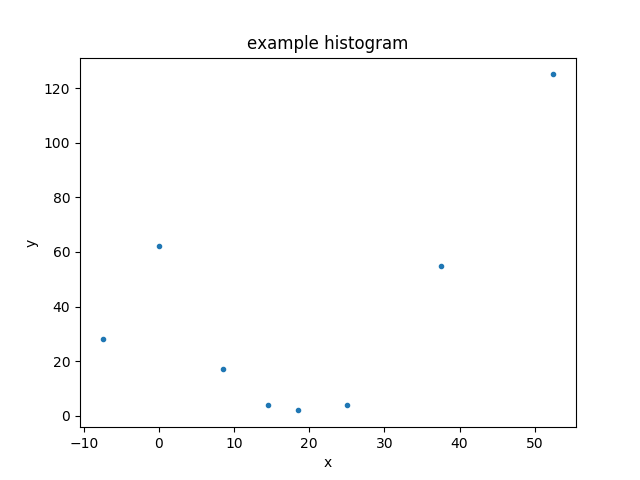
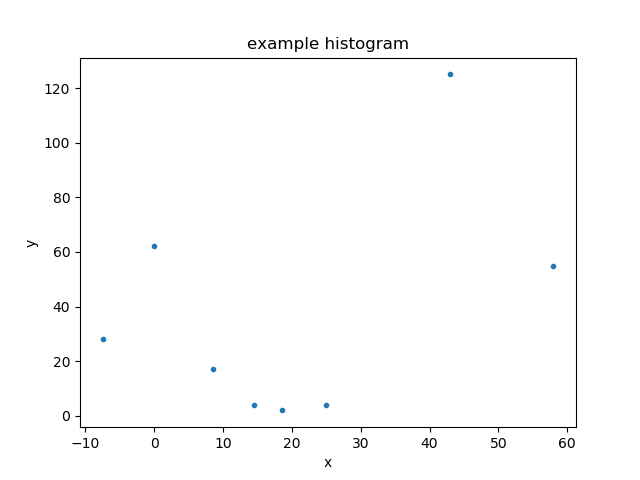
Sphinx: update the plot page
The aim was to mention the new keyword argument support, but the page
needed significant updates before this could happen (as it was missing
any useful text).

diff --git a/docs/_examples/plots/index.py b/docs/_examples/plots/index.py
@@ -1,0 +1,101 @@
+# for plot/index.rst
+
+import numpy as np
+import matplotlib.pyplot as plt
+
+def savefig(name):
+    plt.savefig(name)
+    print("# Created: {}".format(name))
+
+def report(name):
+    print("# print({})".format(name))
+    print(eval(name))
+    print("----------------------------------------")
+
+
+def dump(name):
+    print("# dump")
+    print("{}".format(name))
+    print(repr(eval(name)))
+    print("----------------------------------------")
+
+
+edges = np.asarray([-10, -5, 5, 12, 17, 20, 30, 56, 60])
+y = np.asarray([28, 62, 17, 4, 2, 4, 125, 55])
+
+from sherpa.data import Data1DInt
+d = Data1DInt('example histogram', edges[:-1], edges[1:], y)
+
+from sherpa.plot import DataPlot
+dplot = DataPlot()
+dplot.prepare(d)
+dplot.plot()
+
+savefig('dataplot_histogram.png')
+
+from sherpa.plot import Histogram
+hplot = Histogram()
+hplot.overplot(d.xlo, d.xhi, d.y)
+
+savefig('dataplot_histogram_overplot.png')
+
+from sherpa.models.basic import Const1D, Gauss1D
+mdl = Const1D('base') - Gauss1D('line')
+mdl.pars[0].val = 10
+mdl.pars[1].val = 25
+mdl.pars[2].val = 22
+mdl.pars[3].val = 10
+report("mdl")
+
+from sherpa.plot import ModelPlot
+mplot = ModelPlot()
+mplot.prepare(d, mdl)
+mplot.plot()
+dplot.overplot()
+
+savefig('modelplot_histogram_overplot.png')
+
+from sherpa.plot import FitPlot
+fplot = FitPlot()
+fplot.prepare(dplot, mplot)
+fplot.plot()
+
+savefig('fitplot_histogram.png')
+
+# settings
+
+report("dplot.plot_prefs")
+
+dplot.plot_prefs['ylog'] = True
+dplot.plot(marker='s', linestyle='dashed')
+
+savefig('settings_dataplot_combined.png')
+
+dplot.plot()
+savefig('settings_dataplot_ylog.png')
+
+dplot.plot_prefs['ylog'] = False
+
+
+from sherpa.optmethods import NelderMead
+from sherpa.stats import Cash
+from sherpa.fit import Fit
+f = Fit(d, mdl, stat=Cash(), method=NelderMead())
+out = f.fit()
+
+# How bad a fit is this?
+print(out)
+# f.est_errors()
+
+mplot.prepare(d, mdl)
+fplot.plot()
+
+savefig('fitplot_histogram_after.png')
+
+from sherpa.plot import IntervalProjection
+iproj = IntervalProjection()
+iproj.calc(f, mdl.pars[2])
+
+iproj.plot()
+
+savefig('intproj_histogram_pos.png')

diff --git a/docs/plots/index.rst b/docs/plots/index.rst
@@ -51,12 +51,29 @@ these used from the object API?
 Example
 =======
 
+Here is the data we wish to display: a set of consecutive
+bins, defining the edges of the bins, and the counts in each bin:
+
     >>> import numpy as np
     >>> edges = np.asarray([-10, -5, 5, 12, 17, 20, 30, 56, 60])
-    >>> y = np.asarray([28, 62, 17, 4, 2, 4, 55, 125])
-   
+    >>> y = np.asarray([28, 62, 17, 4, 2, 4, 125, 55])
+
+As this is a one-dimensional integrated data set (i.e. a histogram),
+we shall use the :py:class:`~sherpa.data.Data1DInt` class to
+represent it:
+
     >>> from sherpa.data import Data1DInt
     >>> d = Data1DInt('example histogram', edges[:-1], edges[1:], y)
+
+Displaying the data
+-------------------
+
+The :py:class:`~sherpa.plot.DataPlot` class can then be used to
+display the data, using the :py:meth:`~sherpa.plot.DataPlot.prepare`
+method to set up the data to plot - in this case the
+:py:class:`~sherpa.data.Data1DInt` object - and then the
+:py:meth:`~sherpa.plot.DataPlot.plot` method to actually plot the
+data:
 
     >>> from sherpa.plot import DataPlot
     >>> dplot = DataPlot()
@@ -65,7 +82,25 @@ Example
 
 .. image:: ../_static/plots/dataplot_histogram.png
 
-Some text.
+The appearance of the plot will depend on the chosen backend (although
+as of the Sherpa 4.12.0 release there is only one, using the
+:term:`matplotlib` package).
+
+Plotting data directly
+----------------------
+
+Most of the Sherpa plot objects expect Sherpa objects to be sent
+to their ``prepare`` methods - normally data and model objects,
+but plot objects themselves can be passed around for "composite"
+plots - but there are several classes that accept the values to
+display directly:
+:py:class:`~sherpa.plot.Plot`,
+:py:class:`~sherpa.plot.Histogram`,
+:py:class:`~sherpa.plot.Point`,
+and
+:py:class:`~sherpa.plot.Contour`. Here we use the Histogram
+class directly to diplay the data directly, on top of the
+existing plot:
 
     >>> from sherpa.plot import Histogram
     >>> hplot = Histogram()
@@ -73,12 +108,40 @@ Some text.
 
 .. image:: ../_static/plots/dataplot_histogram_overplot.png
 
-Some more text.
+Creating a model
+----------------
+
+For the following we need a
+:doc:`model to display <../models/index>`, so how about
+a constant minus a gaussian, using the
+:py:class:`~sherpa.models.basic.Const1D`
+and
+:py:class:`~sherpa.models.basic.Gauss1D`
+classes:
 
     >>> from sherpa.models.basic import Const1D, Gauss1D
     >>> mdl = Const1D('base') - Gauss1D('line')
-    >>> for p, v in zip(mdl.pars, [10, 25, 22, 10]):
-    ...     p.val = v
+    >>> mdl.pars[0].val = 10
+    >>> mdl.pars[1].val = 25
+    >>> mdl.pars[2].val = 22
+    >>> mdl.pars[3].val = 10
+    >>> print(mdl)
+    (base - line)
+       Param        Type          Value          Min          Max      Units
+       -----        ----          -----          ---          ---      -----
+       base.c0      thawed           10 -3.40282e+38  3.40282e+38           
+       line.fwhm    thawed           25  1.17549e-38  3.40282e+38           
+       line.pos     thawed           22 -3.40282e+38  3.40282e+38           
+       line.ampl    thawed           10 -3.40282e+38  3.40282e+38           
+
+Displaying the model
+--------------------
+
+With a Sherpa model, we can now use the
+:py:class:`~sherpa.plot.ModelPlot` to display it. Note that unlike
+the data plot, the
+:py:meth:`~sherpa.plot.ModelPlot.prepare` method requires
+the data *and* the model:
    
     >>> from sherpa.plot import ModelPlot
     >>> mplot = ModelPlot()
@@ -88,13 +151,103 @@ Some more text.
 
 .. image:: ../_static/plots/modelplot_histogram_overplot.png
 
-Blah.
+The data was drawn on top of the model using the
+:py:meth:`~sherpa.plot.DataPlot.overplot` method
+(:py:meth:`~sherpa.plot.DataPlot.plot`
+could also have been used as long as the
+``overplot`` argument was set to ``True``).
+
+Combining the data and model plots
+----------------------------------
+
+The above plot is very similar to that created by the
+:py:class:`~sherpa.plot.FitPlot` class:
+
+    >>> from sherpa.plot import FitPlot
+    >>> fplot = FitPlot()
+    >>> fplot.prepare(dplot, mplot)
+    >>> fplot.plot()
+
+.. image:: ../_static/plots/fitplot_histogram.png
+
+The major difference is that here the data is drawn first, and then
+the model - unlike the previous example - so the colors used for the
+line and points has swapped. The plot title is also different.
+
+Changing the plot appearance
+----------------------------
+
+There is limited support for changing the appearance of plots,
+and this can be done either by
+
+  - changing the preference settings of the plot object
+    (which will change any plot created by the object)
+
+  - over-riding the setting when plotting the data (this
+    capability is new to Sherpa 4.12.0).
+
+There are several settings which are provided for all backends,
+such as whether to draw an axis with a logarithmic scale - the
+``xlog`` and ``ylog`` settings - as well as others that are specific
+to a backend - such as the ``marker`` preference provided by the
+Matplotlib backend. The name of the preference setting depends on
+the plot object, for the DataPlot it is
+:py:attr:`~sherpa.plot.DataPlot.plot_prefs`:
+
+    >>> print(dplot.plot_prefs)
+    {'xerrorbars': False, 'yerrorbars': True, 'ecolor': None, 'capsize': None, 'barsabove': False, 'xlog': False, 'ylog': False, 'linestyle': 'None', 'linecolor': None, 'color': None, 'marker': '.', 'markerfacecolor': None, 'markersize': None, 'xaxis': False, 'ratioline': False}
+
+Here we set the y scale of the data plot to be drawn with a log
+scale - by changing the preference setting - and then override
+the ``marker`` and ``linestyle`` elements when creating the plot:
+
+    >>> dplot.plot_prefs['ylog'] = True
+    >>> dplot.plot(marker='s', linestyle='dashed')
+
+.. image:: ../_static/plots/settings_dataplot_combined.png
+
+If called without any arguments, the marker and line-style changes
+are no-longer applied, but the y-axis is still drawn with a log scale:
+
+    >>> dplot.plot()
+
+.. image:: ../_static/plots/settings_dataplot_ylog.png
+
+Let's remove the y scaling so that the remaining plots use a linear
+scale:
+
+    >>> dplot.plot_prefs['ylog'] = False
+
+Updating a plot
+---------------
+
+Note that for the FitPlot class the
+:py:meth:`~sherpa.plot.FitPlot.prepare` method
+accepts plot objects rather than data and model objects.
 
     >>> from sherpa.optmethods import NelderMead
     >>> from sherpa.stats import Cash
     >>> from sherpa.fit import Fit
     >>> f = Fit(d, mdl, stat=Cash(), method=NelderMead())
     >>> f.fit()
+
+The model plot needs to be updated to reflect the new parameter values
+before we can replot the fit:
+
+    >>> mplot.prepare(d, mdl)
+    >>> fplot.plot()
+
+.. image:: ../_static/plots/fitplot_histogram_after.png
+
+Looking at confidence ranges
+----------------------------
+
+The variation in best-fit statistic to a parameter can be
+investigated with the :py:class:`~sherpa.plot.IntervalProjection`
+class (there is also a :py:class:`~sherpa.plot.IntervalUncertainty`
+but it is not as robust). Here we use the default options for
+determing the parameter range over which to vary the gaussian
+line position (which corresponds to `mdl.pars[2]`):
 
     >>> from sherpa.plot import IntervalProjection
     >>> iproj = IntervalProjection()
@@ -107,7 +260,7 @@ Blah.
     WARNING: hard maximum hit for parameter line.ampl
     >>> iproj.plot()
 
-Hmmmm. Not good results. Need to reevaluate the data beng used here.
+.. image:: ../_static/plots/intproj_histogram_pos.png
 
 Reference/API
 =============
